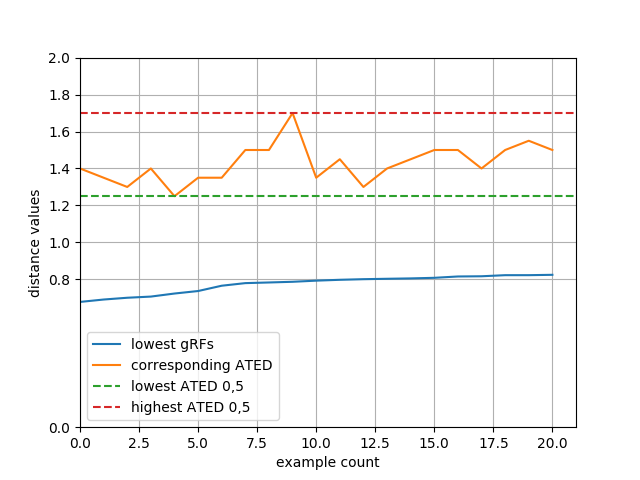
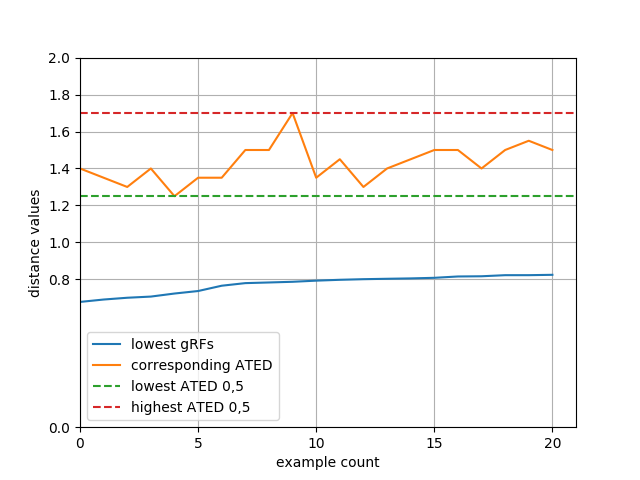
plots fixed

diff --git a/tree_comparison.py b/tree_comparison.py
@@ -501,6 +501,7 @@ def create_graph(tree_size, number_of_trees, graph_type="zss_to_grf"):
                 plt.ylim(0, max(2, 0.2 + maximum)) 
                 plt.yticks([0, 0.8, 1, 1.2, 1.4, 1.6, 1.8, 2])
                 plt.xlim(0, 21) 
+                plt.xticks([0,5,10,15,20])
                 plt.plot(low_grf_1, label="lowest gRFs")
                 plt.plot(low_zss_0_5, label="corresponding ATED")
                 plt.plot((0,21),(min(zss_0_5),min(zss_0_5)),'--', label="lowest ATED 0,5")
@@ -518,7 +519,8 @@ def create_graph(tree_size, number_of_trees, graph_type="zss_to_grf"):
                 plt.grid(True)
                 plt.ylim(0, max(2, 0.2 + maximum)) 
                 plt.yticks([0, 0.8, 1, 1.2, 1.4, 1.6, 1.8, 2])
-                plt.xlim(0, 21) 
+                plt.xlim(0, 21)
+                plt.xticks([0,5,10,15,20])
                 plt.plot(high_grf_1, label="highest gRFs")
                 plt.plot(high_zss_0_5, label="corresponding ATED")
                 plt.plot((0,21),(min(zss_0_5),min(zss_0_5)),'--', label="lowest ATED 0,5")
@@ -540,8 +542,8 @@ def create_graph(tree_size, number_of_trees, graph_type="zss_to_grf"):
                 plt.xticks([0,20,75,150,225,280,300])
                 plt.plot(s_grf_1, label="all gRFs ascending")
                 plt.plot(s_zss_0_5, label="corresponding ATED")
-                plt.plot((0,21),(min(zss_0_5),min(zss_0_5)),'--', label="lowest ATED 0,5")
-                plt.plot((0,21),(max(zss_0_5),max(zss_0_5)),'--', label="highes ATED 0,5")
+                plt.plot((0,300),(min(zss_0_5),min(zss_0_5)),'--', label="lowest ATED 0,5")
+                plt.plot((0,300),(max(zss_0_5),max(zss_0_5)),'--', label="highes ATED 0,5")
                 plt.ylabel('distance values')
                 plt.xlabel('example count')
                 plt.legend()
